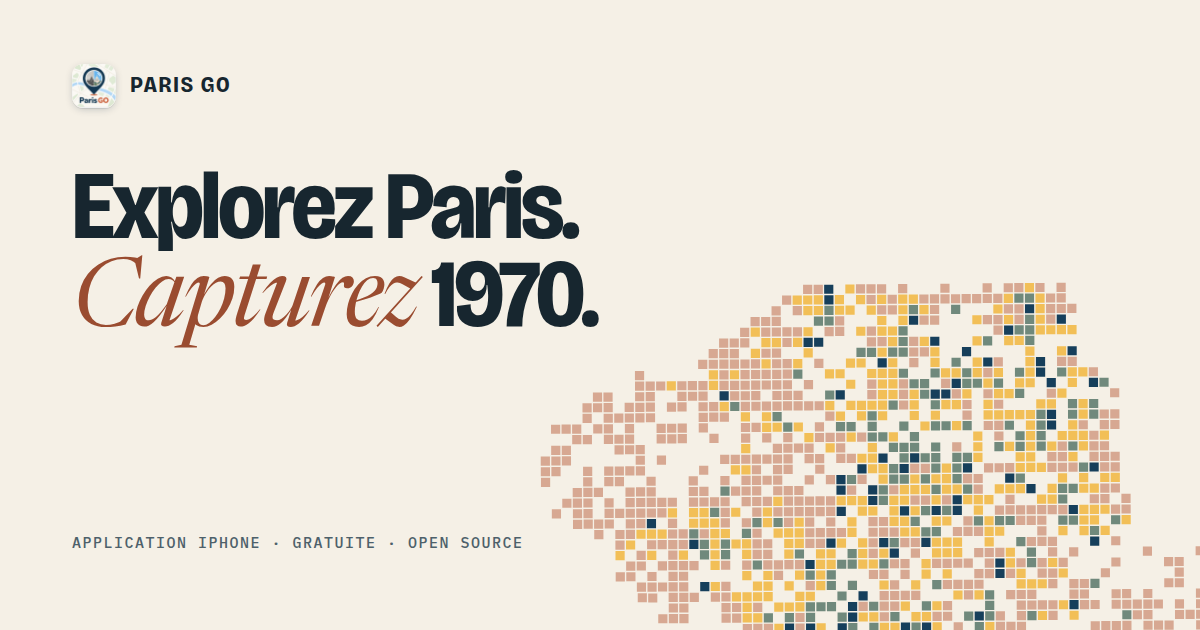
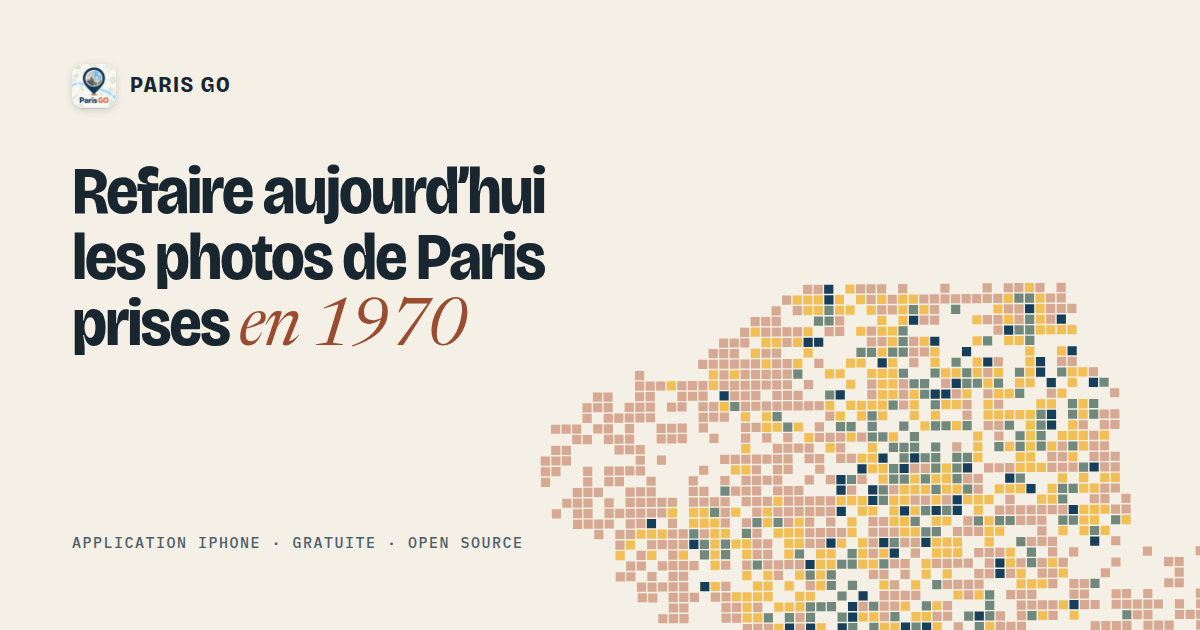
fix(site): remplacer les slogans par des titres descriptifs
Les titres et chapeaux de l’accueil disent ce que fait l’application au lieu
de formules en deux temps. Même traitement pour l’image de partage, la page
d’assistance et la page 404.

Claude-Session: https://claude.ai/code/session_01Y9M9sHYBkk6am7ckuhLsbm

Changed region(s): [[0.0617, 0.2413, 0.5242, 0.573]]

diff --git a/site/index.html b/site/index.html
@@ -5,9 +5,9 @@
   <meta name="viewport" content="width=device-width, initial-scale=1">
   <meta name="theme-color" content="#F5F0E6" media="(prefers-color-scheme: light)">
   <meta name="theme-color" content="#0B1620" media="(prefers-color-scheme: dark)">
-  <meta name="description" content="Paris GO, application iPhone gratuite et open source : retrouvez les points de vue du concours photo « C’était Paris en 1970 », superposez l’archive à la caméra et refaites la photo aujourd’hui pour l’Observatoire photo participatif des paysages parisiens.">
-  <meta property="og:title" content="Paris GO — Explorez Paris, capturez 1970">
-  <meta property="og:description" content="1 755 carrés photographiés en 1970. Retrouvez le point de vue, alignez le cadrage, refaites la photo et contribuez à l’Observatoire.">
+  <meta name="description" content="Paris GO est une application iPhone gratuite et open source pour retrouver les points de vue du concours photo « C’était Paris en 1970 », refaire la même photo aujourd’hui et l’envoyer à l’Observatoire photo participatif des paysages parisiens.">
+  <meta property="og:title" content="Paris GO — refaire les photos de Paris prises en 1970">
+  <meta property="og:description" content="Application iPhone gratuite pour retrouver les points de vue du concours « C’était Paris en 1970 », refaire la photo et l’envoyer à l’Observatoire photo participatif.">
   <meta property="og:type" content="website">
   <meta property="og:locale" content="fr_FR">
   <meta property="og:url" content="https://youplala.github.io/reprise/">
@@ -22,7 +22,7 @@
   <link rel="preload" href="assets/fonts/bricolage-grotesque-latin.woff2" as="font" type="font/woff2" crossorigin>
   <link rel="preload" href="assets/fonts/newsreader-latin.woff2" as="font" type="font/woff2" crossorigin>
   <link rel="stylesheet" href="assets/styles.css">
-  <title>Paris GO — Explorez Paris, capturez 1970</title>
+  <title>Paris GO — refaire les photos de Paris prises en 1970</title>
 </head>
 <body>
   <a class="skip-link" href="#contenu">Aller au contenu</a>
@@ -61,11 +61,11 @@
       <div class="container">
         <div class="hero-head">
           <div class="hero-title reveal">
-            <p class="kicker">Application iPhone · Paris, 1970 / 2026</p>
-            <h1>Explorez Paris.<br><em>Capturez</em> 1970.</h1>
+            <p class="kicker">Application iPhone</p>
+            <h1>Refaire aujourd’hui les photos de Paris prises <em>en 1970</em></h1>
           </div>
           <div class="hero-copy reveal">
-            <p class="lead">En 1970, près de 2&nbsp;800 photographes amateurs ont photographié Paris carré par carré. Paris GO vous guide jusqu’à leurs points de vue pour refaire la même image aujourd’hui.</p>
+            <p class="lead">En 1970, environ 2&nbsp;800 photographes amateurs ont photographié Paris, chacun dans un carré de 250&nbsp;m. Paris GO affiche leurs photos sur une carte, vous guide jusqu’au point de vue et superpose l’archive à la caméra.</p>
             <div class="actions">
               <a class="button" href="#comment">Comment ça marche</a>
               <a class="button ghost" href="https://github.com/Youplala/reprise">Code source</a>
@@ -113,21 +113,21 @@
       <div class="container">
         <div class="section-head">
           <p class="kicker">Le projet</p>
-          <h2 id="histoire-titre">Paris a déjà été photographié rue par rue. C’est le moment de recommencer.</h2>
+          <h2 id="histoire-titre">Le concours de 1970 et la campagne de 2026</h2>
         </div>
         <div class="epochs">
           <article class="epoch">
             <p class="year" aria-hidden="true">1970</p>
             <h3><span class="visually-hidden">1970 — </span>«&nbsp;C’était Paris en 1970&nbsp;»</h3>
-            <p>La FNAC et la Ville de Paris lancent un concours photographique d’une ampleur inédite. La capitale est découpée en <strong>1&nbsp;755 carrés de 250&nbsp;mètres</strong>&nbsp;; chaque participant reçoit le sien et doit en rapporter des vues&nbsp;: façades, cours, commerces, chantiers, passants.</p>
+            <p>La FNAC et la Ville de Paris organisent un concours photographique. La capitale est découpée en <strong>1&nbsp;755 carrés de 250&nbsp;mètres</strong>&nbsp;; chaque participant reçoit le sien et doit en rapporter des vues&nbsp;: façades, cours, commerces, chantiers, passants.</p>
             <p>Environ <strong>2&nbsp;800 photographes amateurs</strong> répondent à l’appel. Leurs images forment aujourd’hui le fonds «&nbsp;C’était Paris en 1970&nbsp;», conservé par la Bibliothèque historique de la Ville de Paris (BHVP).</p>
           </article>
           <div class="epoch-gap" aria-hidden="true"><span>56 ans</span></div>
           <article class="epoch">
             <p class="year" aria-hidden="true">2026</p>
             <h3><span class="visually-hidden">2026 — </span>L’Observatoire photo participatif des paysages parisiens</h3>
-            <p>Animé par le <strong>CAUE de Paris</strong>, l’Observatoire invite chacune et chacun à retrouver les points de vue de 1970 et à les rephotographier au même endroit, dans le même cadrage. Côte à côte, les deux images racontent un demi-siècle de transformations.</p>
-            <p>La campagne est ouverte à tous, sans matériel particulier, jusqu’au <strong>30&nbsp;novembre 2026</strong>. Paris GO est l’outil de terrain pour y participer depuis un iPhone.</p>
+            <p>Animé par le <strong>CAUE de Paris</strong>, l’Observatoire invite chacune et chacun à retrouver les points de vue de 1970 et à les rephotographier au même endroit, dans le même cadrage. Les deux photos sont ensuite publiées côte à côte sur le site de l’Observatoire.</p>
+            <p>La campagne est ouverte à tous, sans matériel particulier, jusqu’au <strong>30&nbsp;novembre 2026</strong>. Paris GO sert à y participer depuis un iPhone.</p>
           </article>
         </div>
       </div>
@@ -138,25 +138,25 @@
       <div class="container">
         <div class="section-head">
           <p class="kicker">Comment ça marche</p>
-          <h2 id="comment-titre">Quatre gestes, une photo.</h2>
-          <p class="lead">Une sortie de vingt minutes suffit. Pas de compte à créer, pas de matériel à acheter&nbsp;: l’iPhone que vous avez déjà.</p>
+          <h2 id="comment-titre">De la carte au formulaire de l’Observatoire</h2>
+          <p class="lead">Il faut un iPhone et une connexion internet pour charger les photos de 1970. Aucun compte n’est nécessaire.</p>
         </div>
         <ol class="steps">
           <li>
-            <h3>Choisir</h3>
-            <p>Sur la carte ou autour de vous, repérez une vue de 1970 encore à refaire. Ouvrez sa fiche&nbsp;: la photographie, son auteur, le lieu indexé par la bibliothèque.</p>
+            <h3>Choisir une photo</h3>
+            <p>Sur la carte ou dans l’onglet Autour, choisissez une vue de 1970 encore à refaire. Sa fiche indique l’auteur et le lieu indexé par la bibliothèque.</p>
           </li>
           <li>
-            <h3>Marcher</h3>
-            <p>Rendez-vous sur place, l’archive en grand sous les yeux, pour reconnaître le bâtiment, l’angle de rue ou la perspective.</p>
+            <h3>Aller sur place</h3>
+            <p>Rendez-vous au point de vue avec la photo de 1970 affichée en grand pour repérer le bâtiment ou l’angle de rue.</p>
           </li>
           <li>
-            <h3>Aligner</h3>
-            <p>Superposez l’archive à la caméra, réglez sa transparence et bougez jusqu’à ce que les lignes coïncident. Déclenchez.</p>
+            <h3>Aligner et photographier</h3>
+            <p>Superposez l’archive à la caméra, réglez sa transparence et déplacez-vous jusqu’à ce que les lignes coïncident.</p>
           </li>
           <li>
-            <h3>Contribuer</h3>
-            <p>Si vous le souhaitez, Paris GO prépare le formulaire de l’Observatoire. Vous relisez, puis vous envoyez vous-même.</p>
+            <h3>Envoyer à l’Observatoire</h3>
+            <p>Étape facultative. Paris GO préremplit le formulaire de l’Observatoire&nbsp;; vous le vérifiez et l’envoyez vous-même.</p>
           </li>
         </ol>
       </div>
@@ -221,13 +221,13 @@
               <circle cx="180" cy="620" r="29" fill="none" stroke="#FFFFFF" stroke-width="2.5"/>
             </g>
           </svg>
-          <figcaption>Illustration du viseur. En vrai, c’est la photographie de 1970 qui se pose sur l’image de la caméra.</figcaption>
+          <figcaption>Illustration du viseur. Dans l’application, c’est la photographie de 1970 qui se superpose à l’image de la caméra.</figcaption>
         </figure>
         <div class="split-copy">
           <p class="kicker">La caméra</p>
-          <h2 id="camera-titre">L’archive en transparence sur votre viseur.</h2>
-          <p class="lead">Réglez l’opacité de la photographie de 1970 par-dessus l’image de la caméra, alignez les corniches, les fenêtres et les lignes de fuite, puis déclenchez.</p>
-          <p>Aucune analyse d’image automatique&nbsp;: c’est votre œil qui décide. La photo est comparée à l’archive côte à côte avant d’être gardée.</p>
+          <h2 id="camera-titre">Superposer la photo de 1970 à la caméra</h2>
+          <p class="lead">La photo de 1970 s’affiche en transparence sur l’image de la caméra, et un curseur règle son opacité. Vous vous déplacez jusqu’à ce que les façades, les fenêtres et les lignes de la rue coïncident, puis vous déclenchez.</p>
+          <p>L’alignement se fait à l’œil&nbsp;: l’application n’analyse pas les images. Après la prise de vue, les deux photos sont affichées côte à côte pour vérifier le cadrage.</p>
           <ul class="checks">
             <li>Enregistrement dans Photos en <strong>ajout seul</strong>&nbsp;: Paris GO ne lit jamais votre photothèque.</li>
             <li>Vos prises de vue et votre carnet restent sur le téléphone.</li>
@@ -241,9 +241,9 @@
       <div class="container split reverse">
         <div class="split-copy">
           <p class="kicker">La contribution</p>
-          <h2 id="contribuer-titre">Le formulaire officiel, préparé mais jamais envoyé à votre place.</h2>
-          <p class="lead">Quand votre photo vous convient, Paris GO ouvre le formulaire de l’Observatoire et prépare ce qui est public. Le reste vous appartient.</p>
-          <p>Vous renseignez votre identité et les consentements, vous vérifiez chaque champ, puis vous déclenchez l’envoi. La contribution part directement vers l’Observatoire, qui la modère et la publie.</p>
+          <h2 id="contribuer-titre">Envoyer sa photo à l’Observatoire</h2>
+          <p class="lead">Paris GO ouvre le formulaire officiel de l’Observatoire dans l’application et remplit les champs publics&nbsp;: date, lieu, coordonnées, modèle d’appareil et les deux photos.</p>
+          <p>Vous remplissez votre identité et les consentements, vous vérifiez le formulaire, puis vous l’envoyez vous-même. La contribution va directement à l’Observatoire, qui la modère et la publie. Paris GO n’envoie rien à votre place.</p>
         </div>
         <div class="form-sheet">
           <p class="form-sheet-head"><span>observatoire-photo.paris</span><span>Formulaire de contribution</span></p>
@@ -261,7 +261,7 @@
               <tr><th scope="row">Consentements</th><td><span class="by-you">Vous</span></td></tr>
             </tbody>
           </table>
-          <p class="form-sheet-send"><span>Envoyer la contribution</span><span class="by-you">Vous seul</span></p>
+          <p class="form-sheet-send"><span>Envoyer la contribution</span><span class="by-you">Vous</span></p>
         </div>
       </div>
     </section>
@@ -271,28 +271,28 @@
       <div class="container">
         <div class="section-head">
           <p class="kicker">Dans l’application</p>
-          <h2 id="application-titre">Tout ce qu’il faut sur le terrain, rien de plus.</h2>
+          <h2 id="application-titre">Les écrans de l’application</h2>
         </div>
         <ul class="tabs-list">
           <li>
             <svg viewBox="0 0 32 32" aria-hidden="true"><path d="M26 6L5 14.5l9 3.5 3.5 9z"/></svg>
             <h3>Autour de moi</h3>
-            <p>Les vues de 1970 les plus proches, chargées depuis la visionneuse de la BHVP, avec le nom du photographe.</p>
+            <p>Les vues de 1970 les plus proches de vous, chargées depuis la visionneuse de la BHVP, avec le nom du photographe.</p>
           </li>
           <li>
             <svg viewBox="0 0 32 32" aria-hidden="true"><path d="M4 8l8-3 8 3 8-3v19l-8 3-8-3-8 3zM12 5v19M20 8v19"/></svg>
             <h3>Carte</h3>
-            <p>La grille de 1970 sur le Paris d’aujourd’hui. Filtrez les vues à retrouver ou déjà refaites, cherchez une rue.</p>
+            <p>La grille de 1970 sur le plan actuel de Paris, avec un filtre pour les vues à retrouver ou déjà refaites et une recherche par rue.</p>
           </li>
           <li>
             <svg viewBox="0 0 32 32" aria-hidden="true"><circle cx="11" cy="11" r="4"/><circle cx="22" cy="12" r="3.5"/><path d="M3 26c.8-5 4-7.5 8-7.5s7.2 2.5 8 7.5M18 19.5c1.2-.7 2.5-1 4-1 3.4 0 6 2.2 6.8 6.5"/></svg>
             <h3>Communauté</h3>
-            <p>Les comparaisons avant-après publiées, les contributrices et contributeurs, l’avancement de la campagne.</p>
+            <p>Les comparaisons publiées, la liste des contributrices et contributeurs et les statistiques de la campagne.</p>
           </li>
           <li>
             <svg viewBox="0 0 32 32" aria-hidden="true"><path d="M8 4h14l4 4v20H8z"/><path d="M12 12h10M12 17h10M12 22h6"/></svg>
             <h3>Carnet</h3>
-            <p>Vos prises de vue et brouillons de dépôt, gardés sur le téléphone pour reprendre plus tard.</p>
+            <p>Vos prises de vue et brouillons de dépôt, enregistrés sur le téléphone pour être repris plus tard.</p>
           </li>
         </ul>
       </div>
@@ -303,32 +303,32 @@
       <div class="container">
         <div class="section-head">
           <p class="kicker">Nos engagements</p>
-          <h2 id="engagements-titre">Une application qui ne vous demande rien.</h2>
+          <h2 id="engagements-titre">Gratuité, données et code source</h2>
         </div>
         <ul class="pledges">
           <li>
             <h3>Gratuite</h3>
-            <p>Aucun achat intégré, aucune version «&nbsp;pro&nbsp;». Le projet est bénévole.</p>
+            <p>Aucun achat intégré ni version payante. Le projet est bénévole.</p>
           </li>
           <li>
             <h3>Sans compte</h3>
-            <p>Ni inscription, ni mot de passe, ni profil. Aucun serveur d’utilisateurs.</p>
+            <p>Pas d’inscription ni de mot de passe. L’application n’a pas de serveur d’utilisateurs.</p>
           </li>
           <li>
             <h3>Sans publicité ni suivi</h3>
-            <p>Aucune régie, aucun profilage. Les connexions servent à afficher les archives et les données publiques.</p>
+            <p>Aucune régie publicitaire ni profilage. Les connexions servent uniquement à charger les archives et les données publiques.</p>
           </li>
           <li>
             <h3>Photos en ajout seul</h3>
-            <p>Paris GO enregistre les photos qu’elle crée et ne parcourt jamais votre bibliothèque.</p>
+            <p>Paris GO enregistre les photos qu’elle crée et n’a pas accès au reste de votre photothèque.</p>
           </li>
           <li>
-            <h3>Jamais d’envoi automatique</h3>
-            <p>Le formulaire officiel est préparé, pas soumis. Identité, consentements et envoi restent à vous.</p>
+            <h3>Pas d’envoi automatique</h3>
+            <p>Le formulaire officiel est prérempli par l’application, jamais soumis par elle.</p>
           </li>
           <li>
             <h3>Open source</h3>
-            <p>Le code est public sur <a href="https://github.com/Youplala/reprise">GitHub</a>, sous licence MIT. Lisez-le, vérifiez-le, améliorez-le.</p>
+            <p>Le code est publié sur <a href="https://github.com/Youplala/reprise">GitHub</a> sous licence MIT.</p>
           </li>
         </ul>
       </div>
@@ -339,7 +339,7 @@
       <div class="container">
         <div class="section-head">
           <p class="kicker">Sources</p>
-          <h2 id="credits-titre">Paris GO s’appuie sur des institutions et des communs.</h2>
+          <h2 id="credits-titre">Sources des données et des images</h2>
         </div>
         <ul class="credits">
           <li>
@@ -374,10 +374,10 @@
     <section class="section closing" id="disponibilite" aria-labelledby="dispo-titre">
       <div class="container closing-inner">
         <img src="assets/icon-180.png" alt="" width="96" height="96">
-        <h2 id="dispo-titre">Bientôt dans l’App&nbsp;Store.</h2>
-        <p class="lead">Paris GO 1.0 est en cours de publication pour iPhone. En attendant, le code source est ouvert et l’assistance répond aux questions.</p>
+        <h2 id="dispo-titre">Bientôt sur l’App&nbsp;Store</h2>
+        <p class="lead">La version 1.0 pour iPhone est en cours de publication. Le code source est déjà public et l’assistance répond par e-mail.</p>
         <div class="actions">
-          <a class="button" href="support/">Une question&nbsp;? L’assistance</a>
+          <a class="button" href="support/">Assistance</a>
           <a class="button ghost" href="https://github.com/Youplala/reprise">Voir le code source</a>
         </div>
       </div>

diff --git a/site/404.html b/site/404.html
@@ -23,8 +23,8 @@
     <div class="container">
       <p class="kicker">Erreur 404</p>
       <p class="big" aria-hidden="true">404</p>
-      <h1>Ce carré n’est pas sur la carte.</h1>
-      <p class="lead">La page que vous cherchez n’existe pas ou a été déplacée. Revenez à l’accueil ou passez par l’assistance.</p>
+      <h1>Page introuvable</h1>
+      <p class="lead">Cette page n’existe pas ou a été déplacée.</p>
       <div class="actions">
         <a class="button" href="/reprise/">Retour à l’accueil</a>
         <a class="button ghost" href="/reprise/support/">Assistance</a>

diff --git a/site/support/index.html b/site/support/index.html
@@ -35,7 +35,7 @@
     <header class="page-hero">
       <div class="container">
         <p class="kicker">Assistance</p>
-        <h1>Comment pouvons-nous vous aider&nbsp;?</h1>
+        <h1>Aide et contact</h1>
         <p class="lead">Une question sur l’application, une autorisation, le dépôt à l’Observatoire&nbsp;? Les réponses les plus fréquentes sont ci-dessous, et une personne répond aux autres.</p>
         <div class="meta"><span>Dernière mise à jour&nbsp;: 30 août 2026</span></div>
       </div>

diff --git a/site/assets/styles.css b/site/assets/styles.css
@@ -328,6 +328,7 @@ h3 { font-size: clamp(1.25rem, 2vw, 1.5rem); font-weight: 650; font-stretch: 95%
 /* ---------- Héros ---------- */
 .hero { padding-top: clamp(48px, 8vw, 104px); }
 .hero-head { display: grid; gap: 28px; align-items: end; }
+.hero h1 { font-size: clamp(2.5rem, 6vw, 5rem); line-height: 0.98; letter-spacing: -0.03em; }
 .hero h1 em {
   font-family: var(--font-body);
   font-style: italic;
